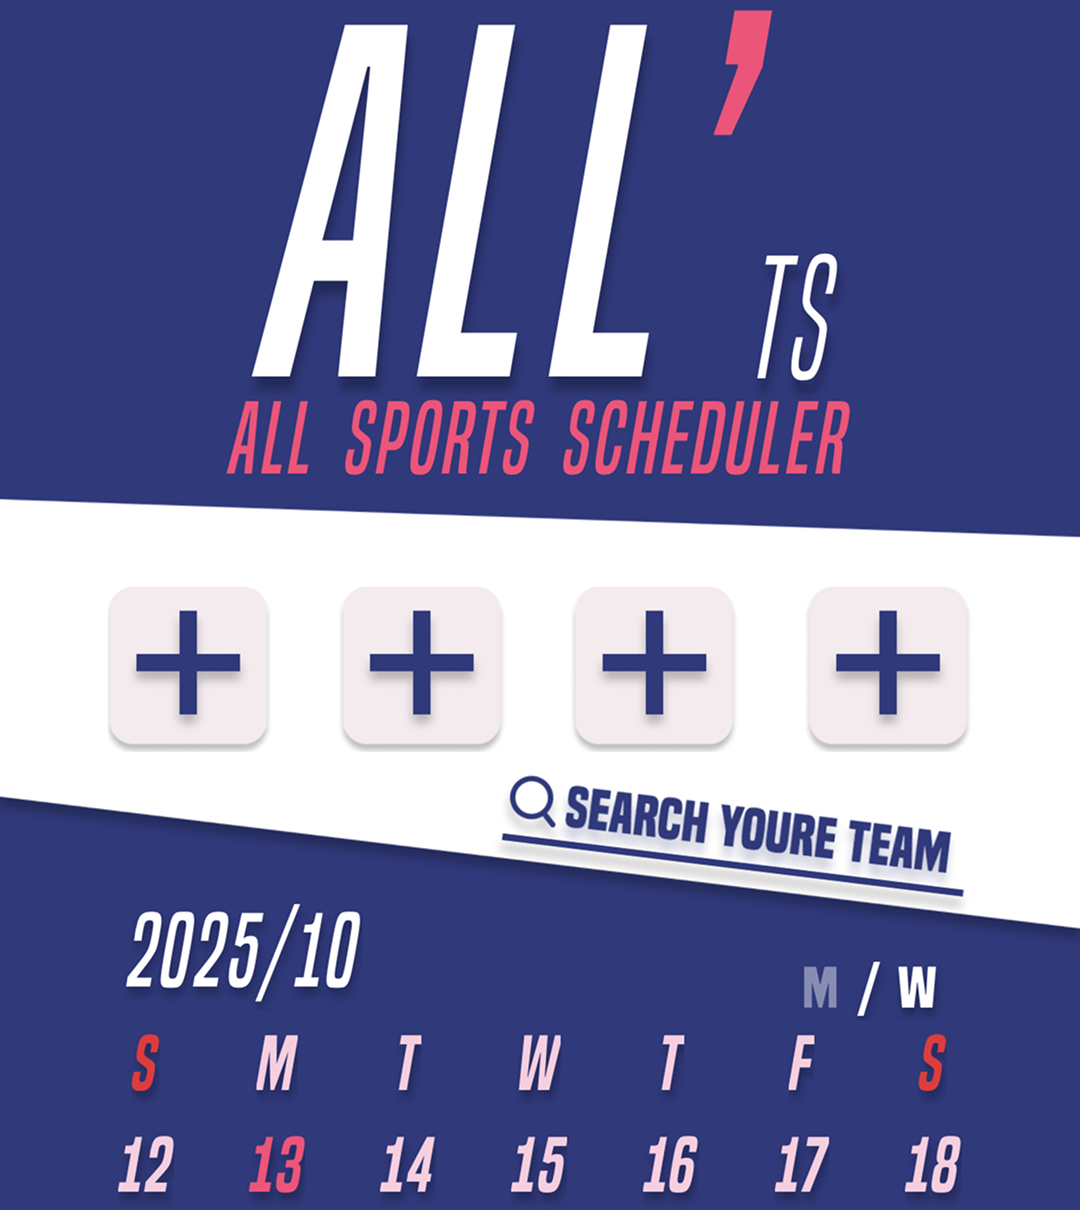
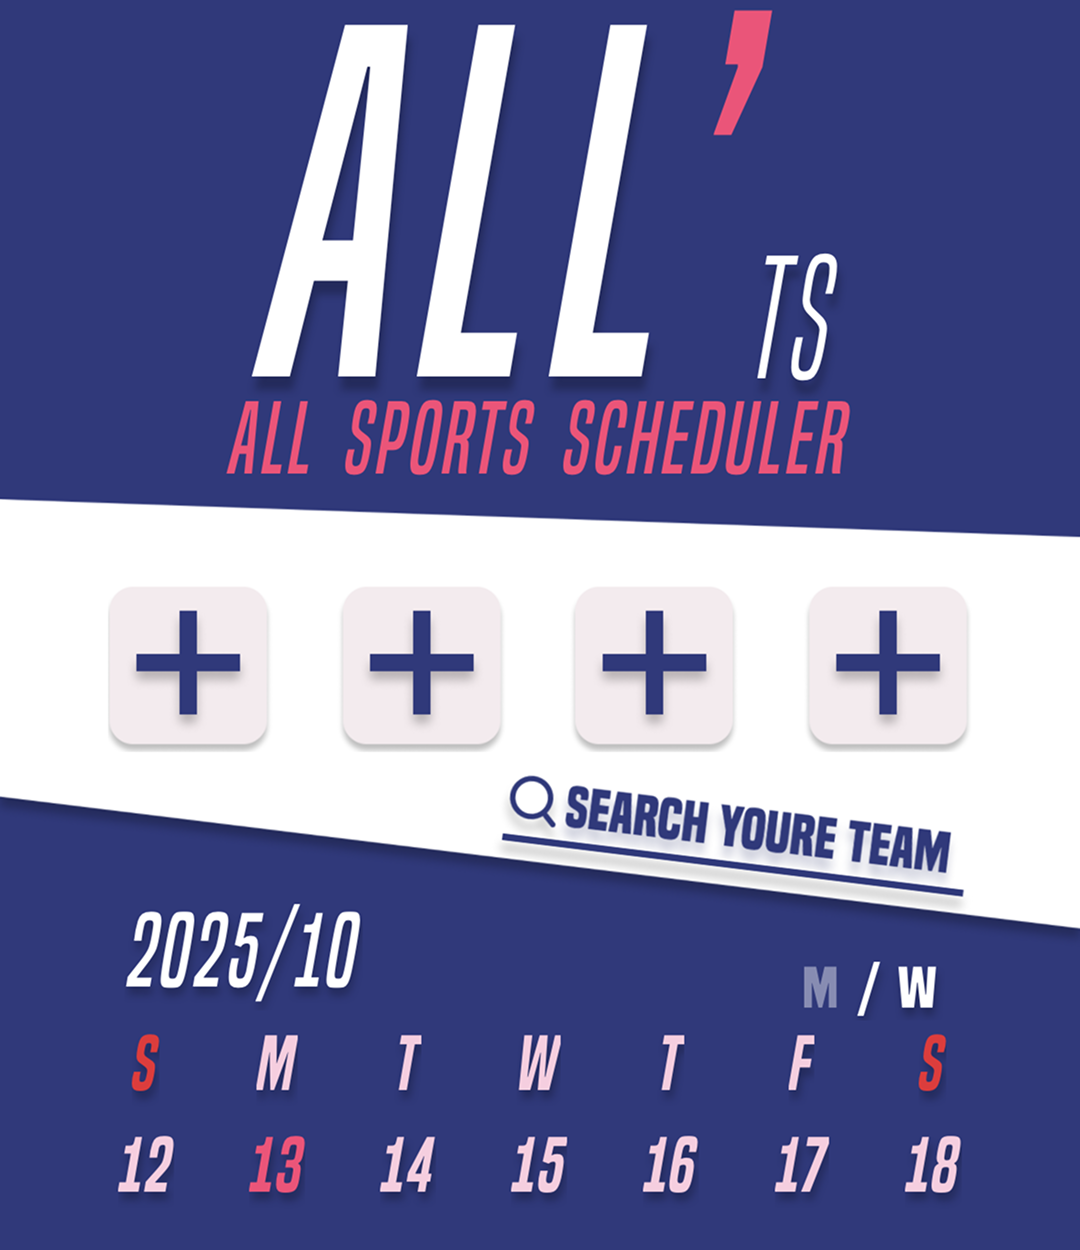
feat: 이미지 추가 및 컴포넌트

diff --git a/src/components/onboarding/timedImageViewer.tsx b/src/components/onboarding/timedImageViewer.tsx
@@ -7,7 +7,7 @@ type Props = {
 };
 
 const INTERVAL_MS = 1500;       // 3초 고정
-const ASPECT = 1080 / 1210;     // 가로/세로 비율
+const ASPECT = 1080 / 1250;     // 가로/세로 비율
 
 export default function TimedImageViewer({ images, isActive = true }: Props) {
   const [index, setIndex] = useState(0);
